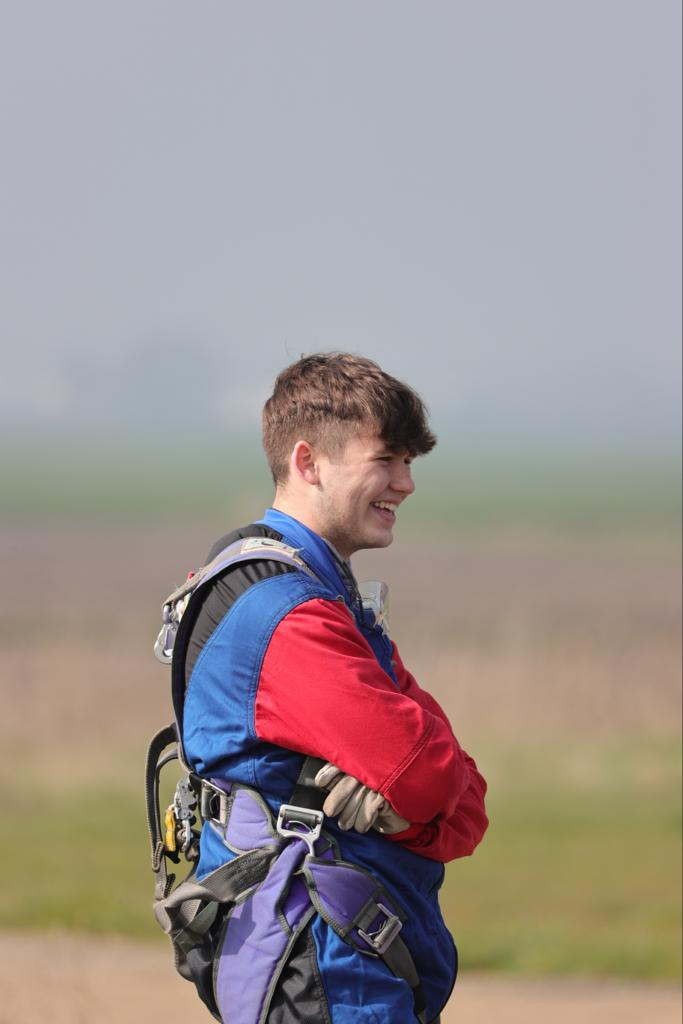
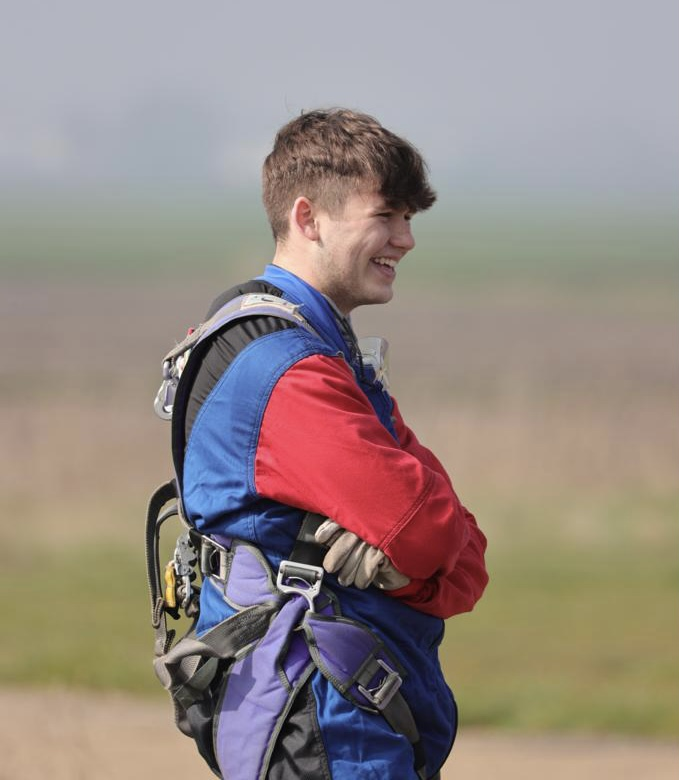
Intro section media queries complete

diff --git a/style.css b/style.css
@@ -34,8 +34,11 @@ a {
 }
 
 img {
-  display: block;
   width: 100%;
+}
+
+strong {
+  font-weight: 900;
 }
 
 /* Animations */
@@ -94,17 +97,18 @@ img {
 }
 
 .nav-item {
-  padding: 0px 15px;
+  padding: 0px 25px;
   cursor: pointer;
   color: #fff;
   text-shadow: 2px 4px 6px #4a5759;
   display: inline-block;
-  animation: slide-left 1.5s ease forwards;
+  animation: slide-left .7s ease forwards;
 }
 
 .nav-item:hover {
   box-shadow: inset 150px 0 0 0 #576f72;
   color: #fff;
+  transition: .7s linear;
 }
 
 
@@ -122,7 +126,7 @@ img {
     font-size: 16px;
   }
   .nav-item {
-    padding: 0px 23px;
+    padding: 0px 30px;
   }
 }
 
@@ -151,16 +155,14 @@ img {
 
 .intro-image2 {
   display: none;
-  /*
   justify-content: center;
   align-items: center;
   margin: auto;
   margin-bottom: 25px;
-  width: 250px;
-  height: 350px;
+  width: 290px;
+  height: 280px;
   border: #5a6b8d 3px solid;
   box-shadow: 10px 10px 5px #ccc;
-  */
 }
 
 .center-text {
@@ -181,7 +183,7 @@ img {
   margin: 20px 10px;
   text-align: center;
   letter-spacing: 1px;
-  animation: 1s slide-right;
+  animation: slide-left 1.5s ease forwards;
 }
 
 .intro-text span {
@@ -203,8 +205,51 @@ img {
   }
 }
 
-@media (min-width: 600px) {
-  /* Make second image appear for bigger size */
+@media (min-width: 1000px) {
+  .intro-image {
+    height: 300px;
+    width: 290px;
+  }
+  .intro-image2 {
+    display: flex;
+    height: 300px;
+    width: 300px;
+  }
+  .intro-section {
+    margin: 50px;
+  }
+  .intro-text {
+    margin: 30px;
+  }
+}
+
+@media (min-width: 1400px) {
+  .intro-section {
+    margin: 80px;
+    margin-bottom: 125px;
+  }
+  .intro-image {
+    height: 420px;
+    width: 400px;
+  }
+  .intro-image2 {
+    display: flex;
+    height: 420px;
+    width: 400px;
+  }
+  .intro-text {
+    margin: 60px;
+  }
+  .center-text {
+    font-size: 35px;
+    text-shadow: 3px 3px #7d9d9c;
+  }
+  .intro-text p {
+    font-size: 16px;
+  }
+  .intro-text span {
+    font-size: 18px;
+  }
 }
 
 

diff --git a/index.html b/index.html
@@ -38,7 +38,7 @@
           developer. <br> Get to know me more below!
         </p>
         </div>
-        <img src="img/Me and Dad copy.jpg" alt="" class="intro-image2">
+        <img src="img/Me Skydive.JPG" alt="" class="intro-image2">
       </div>
     </section>
 
